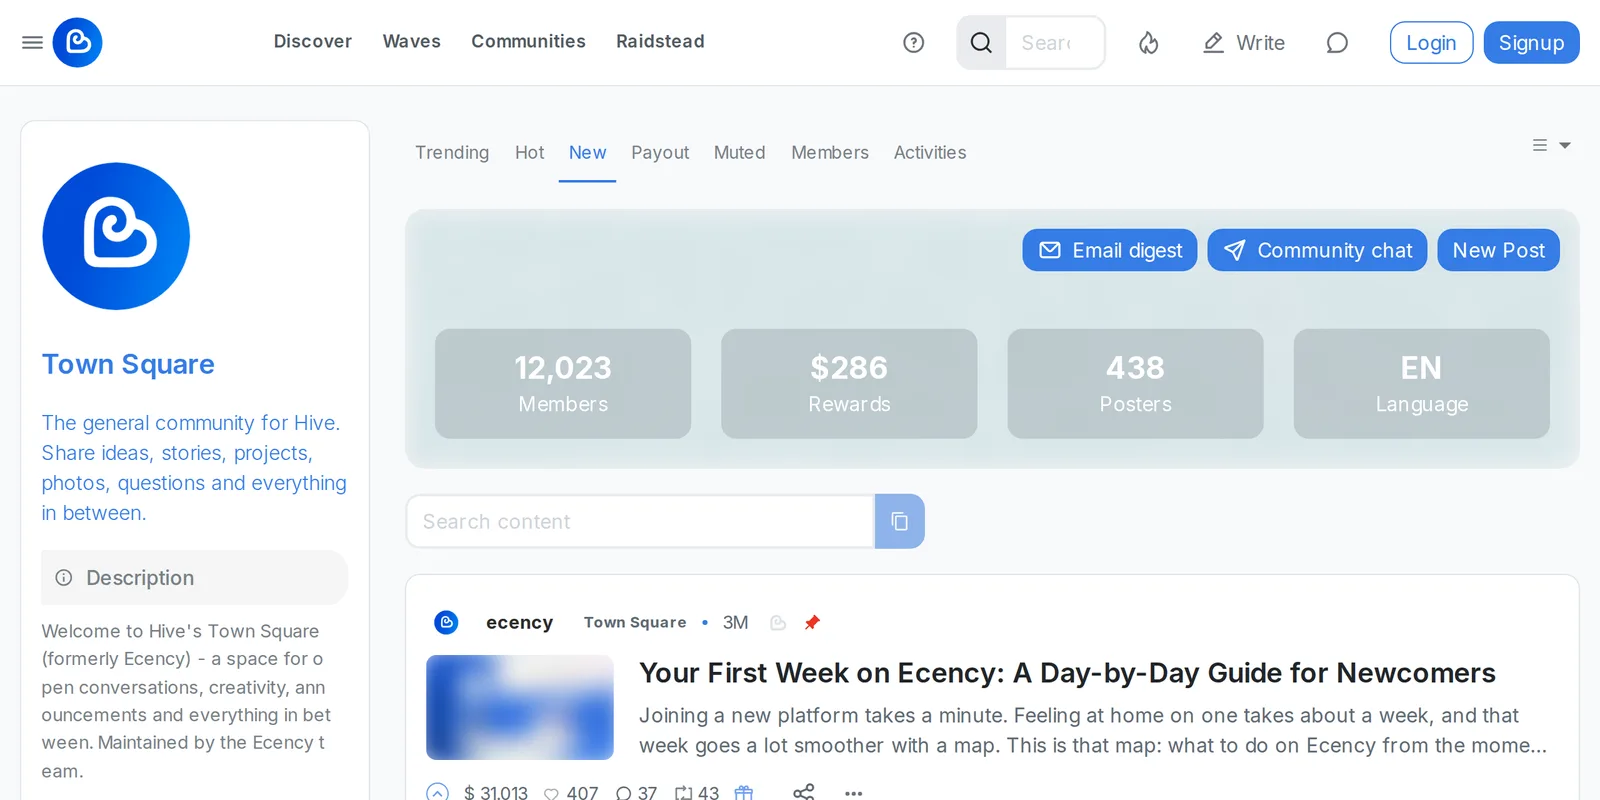
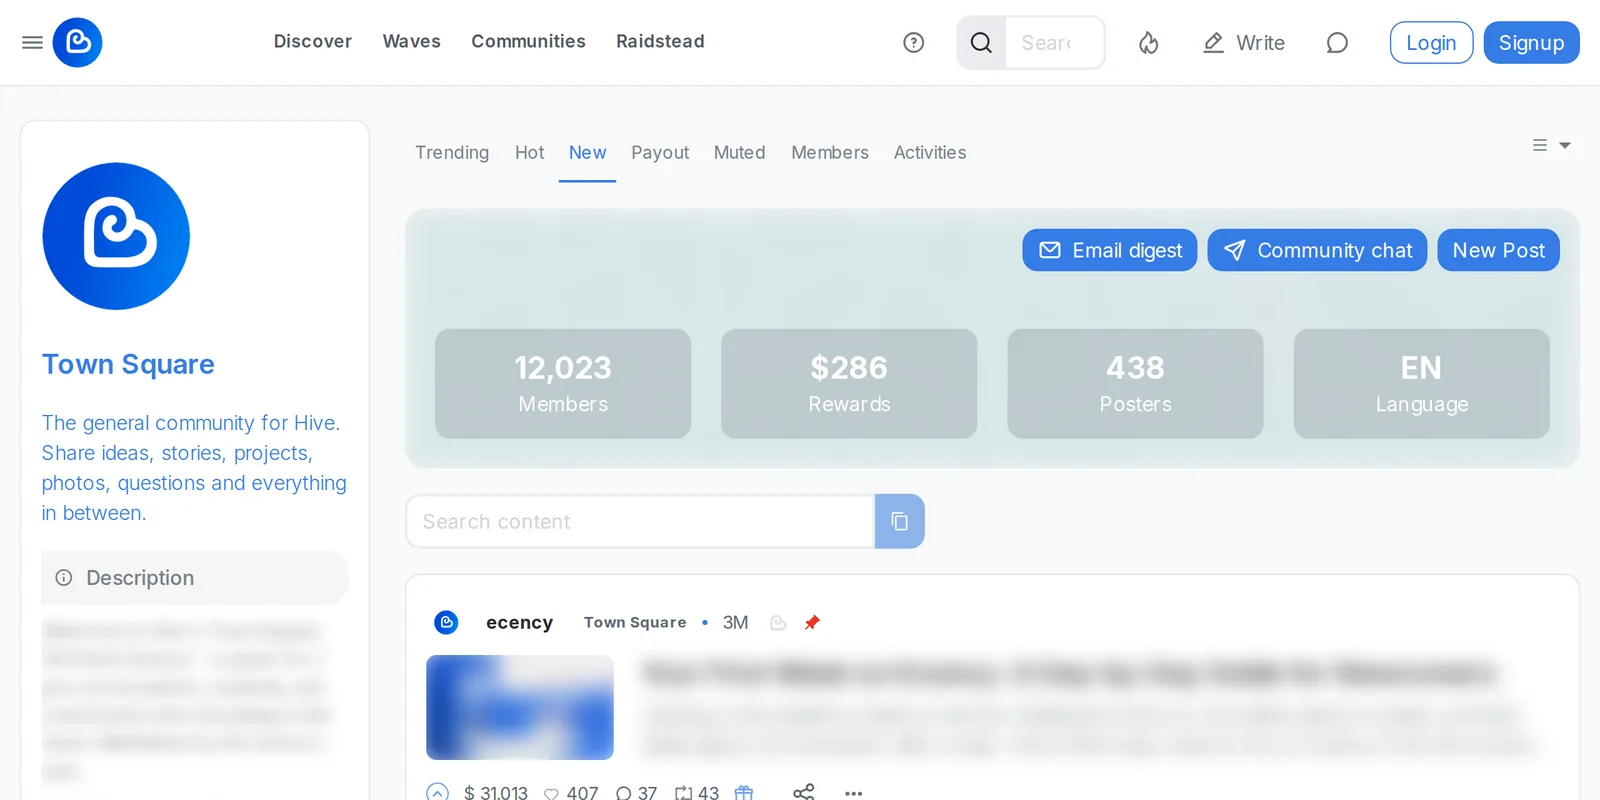
docs: blur post text in screenshots

Changed region(s): [[0.4062, 0.8125, 0.9688, 0.9375], [0.0312, 0.7812, 0.2188, 0.9375]]

diff --git a/scripts/screenshots/README.md b/scripts/screenshots/README.md
@@ -1,0 +1,35 @@
+# Docs screenshots
+
+The app screenshots in `src/assets/screens/` are made by `capture.mjs` from the list in `shots.mjs`. Rerun it when the Ecency UI changes, so the docs match what people see.
+
+## Run
+
+```sh
+npx playwright install chromium   # once
+ECENCY_CAPTURE_UA="<user agent>" node scripts/screenshots/capture.mjs            # all
+ECENCY_CAPTURE_UA="<user agent>" node scripts/screenshots/capture.mjs wallet     # one or more ids
+```
+
+`ECENCY_CAPTURE_UA` is a user agent that the site's bot protection lets through. Without it, ecency.com may answer 403 to a headless browser. Ask the team for it and never commit it.
+
+`ECENCY_CAPTURE_BASE` points the script at another host (default `https://ecency.com`).
+
+## Add a screenshot
+
+1. Add an entry to `shots.mjs` (the fields are described at the top of that file).
+2. Run the script with its id and look at the result in `src/assets/screens/<id>.webp`.
+3. Show it on a page (the page must be `.mdx`):
+
+```mdx
+import Screenshot from "../../../components/visuals/Screenshot.astro";
+import shotWallet from "../../../assets/screens/wallet.webp";
+
+<Screenshot src={shotWallet} alt="What the image shows" caption="The one thing to notice." />
+```
+
+## Rules
+
+- Logged-out pages only, so no personal data ends up in the docs.
+- Use `blurImages` on any page that shows other people's posts or media.
+- Don't capture screens with bugs in them, such as raw translation keys. Crop around them or wait for the fix.
+- Write `alt` for people who can't see the image and keep `caption` to one point.
